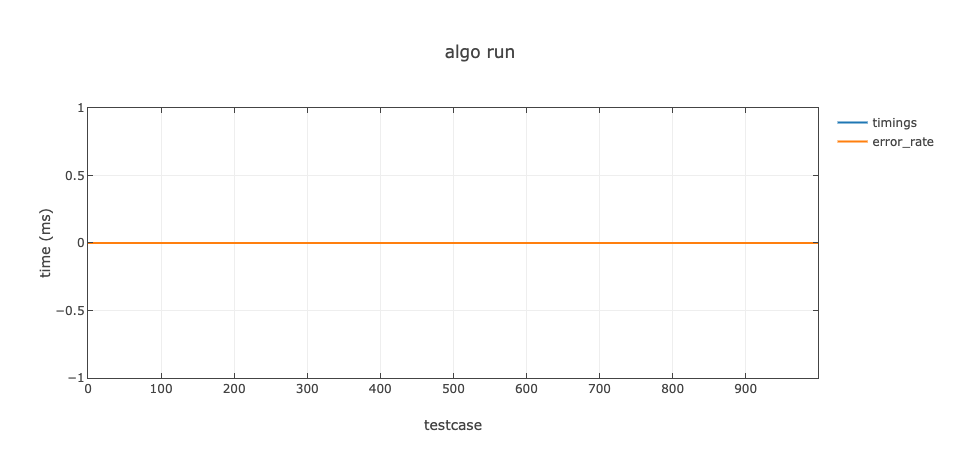
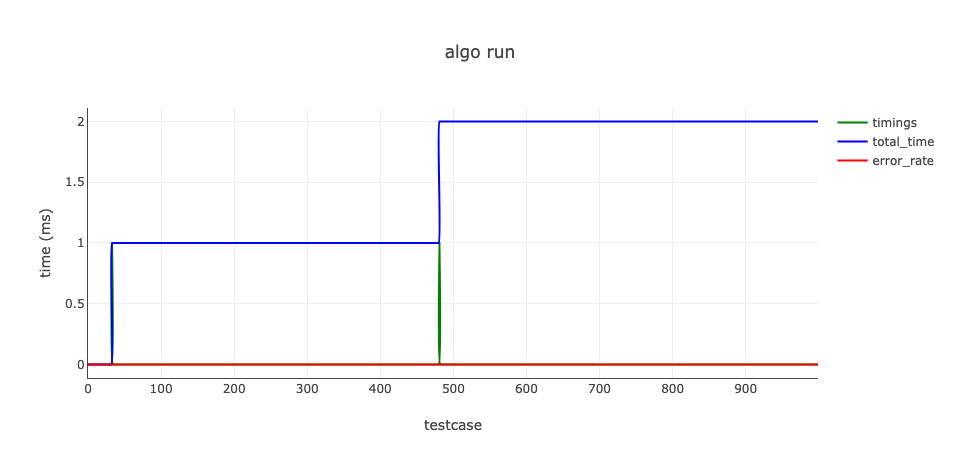
fix: fix filename

diff --git a/utils/index.js b/utils/index.js
@@ -3,18 +3,29 @@ const { join } = require("path");
 const Plot = require("plotly-notebook-js");
 const puppeteer = require("puppeteer");
 
-async function genPlot(batchName, algoKey, timings, errorRates) {
+async function genPlot(batchName, algoKey, timings, totalTimes, errorRates) {
   const algoPlot = Plot.createPlot(
     [
       {
         x: Object.keys(timings),
         y: Object.values(timings),
         name: "timings",
+        type: "scatter",
+        line: { shape: "spline", color: "green" },
+      },
+      {
+        x: Object.keys(totalTimes),
+        y: Object.values(totalTimes),
+        name: "total_time",
+        type: "scatter",
+        line: { shape: "spline", color: "blue" },
       },
       {
         x: Object.keys(errorRates),
         y: Object.values(errorRates),
         name: "error_rate",
+        type: "scatter",
+        line: { shape: "spline", color: "red" },
       },
     ],
     {
@@ -22,14 +33,10 @@ async function genPlot(batchName, algoKey, timings, errorRates) {
       xaxis: {
         title: "testcase",
         showline: true,
-        mirror: "allticks",
-        ticks: "inside",
       },
       yaxis: {
         title: "time (ms)",
         showline: true,
-        mirror: "allticks",
-        ticks: "inside",
       },
     },
   );
@@ -47,6 +54,7 @@ async function genPlot(batchName, algoKey, timings, errorRates) {
   const filename = `${batchName}_${algoKey}.png`;
   await page.screenshot({ path: join(__dirname, "../plots", filename) });
   await browser.close();
+  return filename;
 }
 
 module.exports = { genPlot };

diff --git a/index.js b/index.js
@@ -15,7 +15,10 @@ async function main() {
     for (const algoKey in algos) {
       const timings = {};
       const errorRates = {};
+      const totalTimes = {};
       let errorRate = 0;
+      let casesRan = 0;
+      let startTotalTime = Date.now();
       for (const testCase in testCases) {
         const start = Date.now();
         const testResult = test(algos[algoKey], testCase);
@@ -27,16 +30,20 @@ async function main() {
           errorRate++;
         }
         timings[testCase] = Date.now() - start;
+        totalTimes[testCase] = Date.now() - startTotalTime;
         errorRates[testCase] = errorRate;
+        casesRan++;
       }
-      const filename = await genPlot(name, algoKey, timings, errorRates);
-      plots.push(filename);
+      const totalTime = Date.now() - startTotalTime;
+      const filename = await genPlot(name, algoKey, timings, totalTimes, errorRates);
+      plots.push({ name, algoKey, filename, totalTime, casesRan });
     }
   }
 
   let readmeData = "# Plots generated by `./algos/*.js`\n";
   for (const plot of plots) {
-    readmeData += `## ${plot}\n![${plot}](./plots/${plot})\n`;
+    const { name, algoKey, filename, totalTime, casesRan } = plot;
+    readmeData += `## ${name}/${algoKey}\nTotal time: ${totalTime}, Cases ${casesRan} \n![${filename}](./plots/${filename})\n`;
   }
   writeFileSync(join(__dirname, "README.md"), readmeData);
 }

diff --git a/README.md b/README.md
@@ -1,7 +1,10 @@
 # Plots generated by `./algos/*.js`
-## undefined
-![undefined](./plots/undefined)
-## undefined
-![undefined](./plots/undefined)
-## undefined
-![undefined](./plots/undefined)
+## Fibonacci/runRecursive
+Total time: 29645, Cases 46 
+![Fibonacci_runRecursive.png](./plots/Fibonacci_runRecursive.png)
+## Fibonacci/runRecursiveMemo
+Total time: 15, Cases 1000 
+![Fibonacci_runRecursiveMemo.png](./plots/Fibonacci_runRecursiveMemo.png)
+## Fibonacci/runLoop
+Total time: 2, Cases 1000 
+![Fibonacci_runLoop.png](./plots/Fibonacci_runLoop.png)
